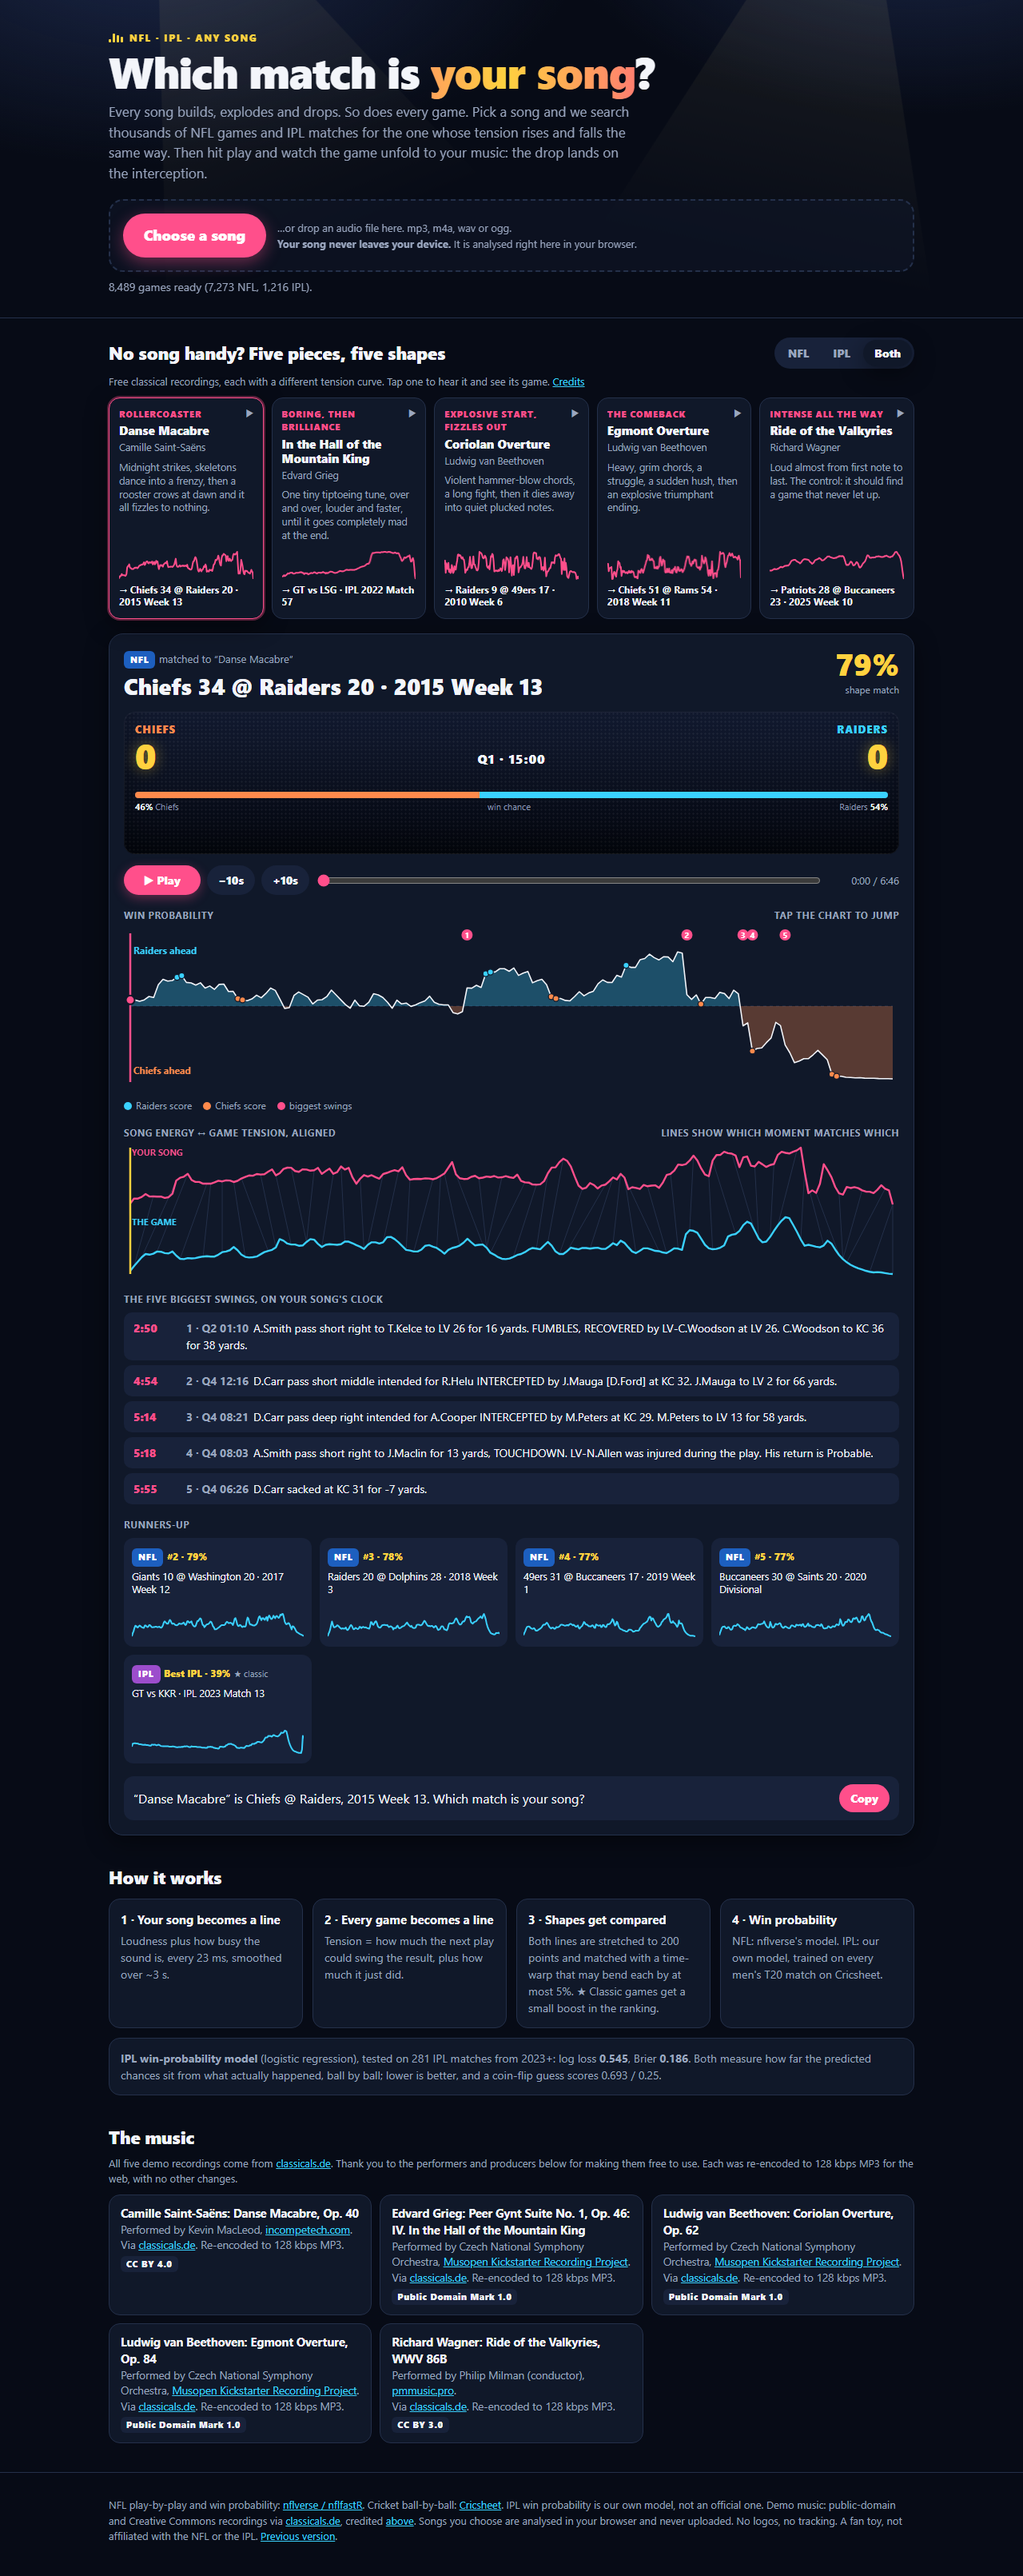
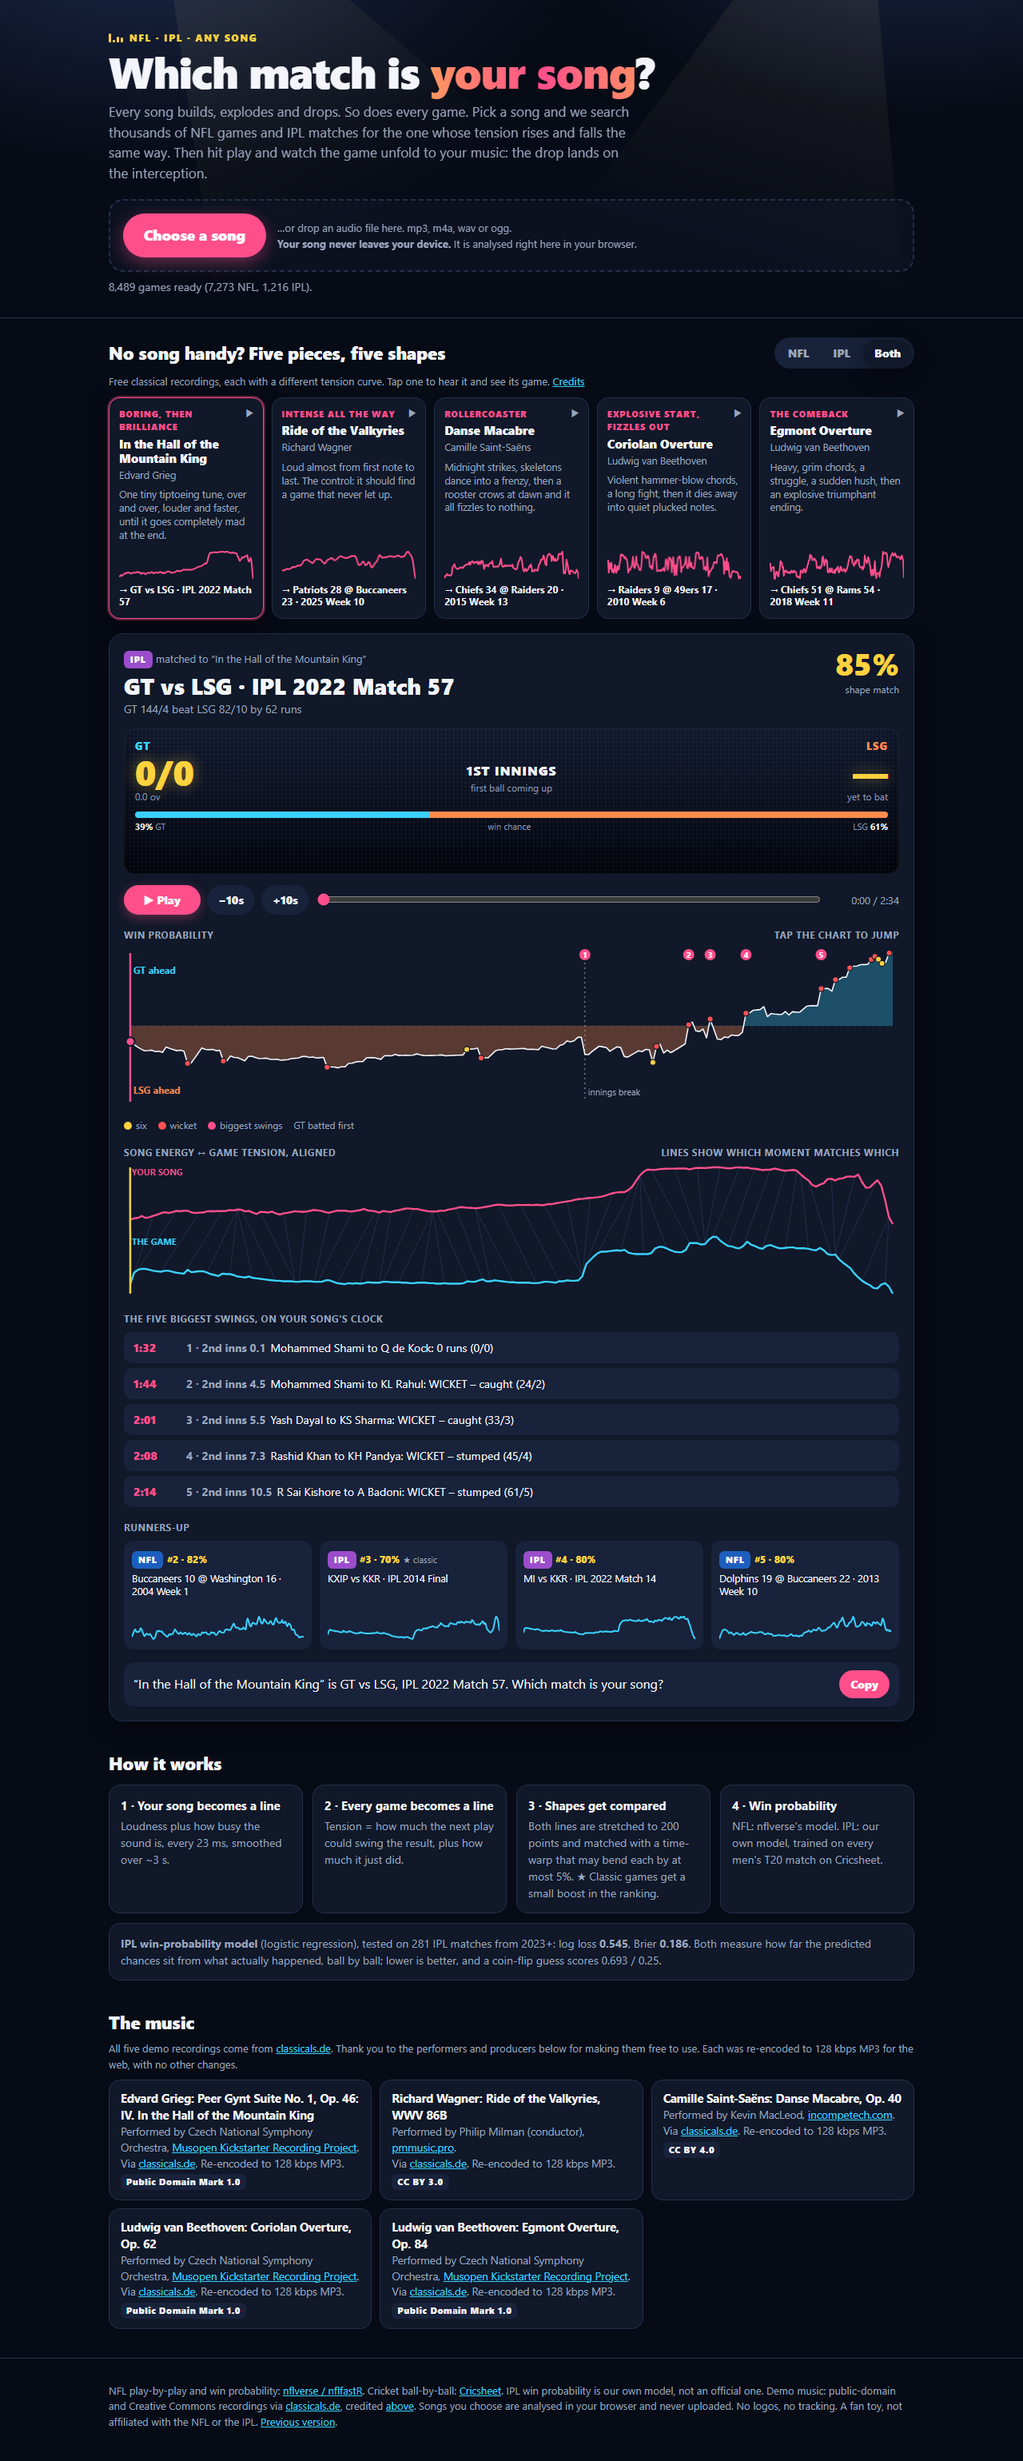
Open on Hall of the Mountain King, then Valkyries, then the rest

Changed region(s): [[0.0938, 0.0, 0.875, 0.9981], [0.5938, 0.1559, 0.7188, 0.2495], [0.6875, 0.5926, 0.7812, 0.655]]

diff --git a/scripts/build_demos.py b/scripts/build_demos.py
@@ -38,6 +38,9 @@ DEMOS = [
      "performer": "Philip Milman (conductor)", "producer": "pmmusic.pro", "producer_url": "https://pmmusic.pro/",
      "licence": "CC BY 3.0", "licence_url": "https://creativecommons.org/licenses/by/3.0/"},
 ]
+# page order; the first one is what the page opens on
+ORDER = ["mountain-king", "valkyries", "danse-macabre", "coriolan", "egmont"]
+DEMOS.sort(key=lambda d: ORDER.index(d["key"]))
 
 
 def main():
